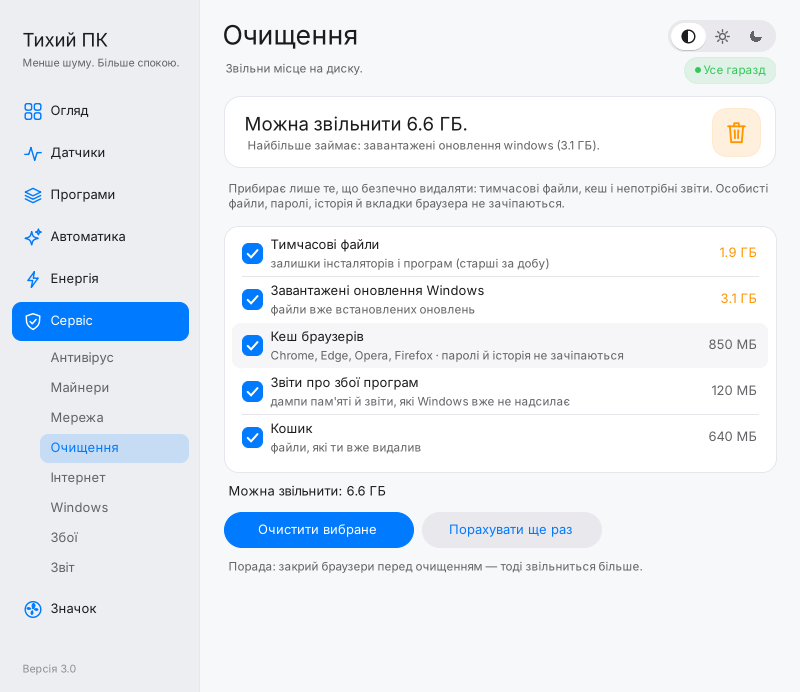
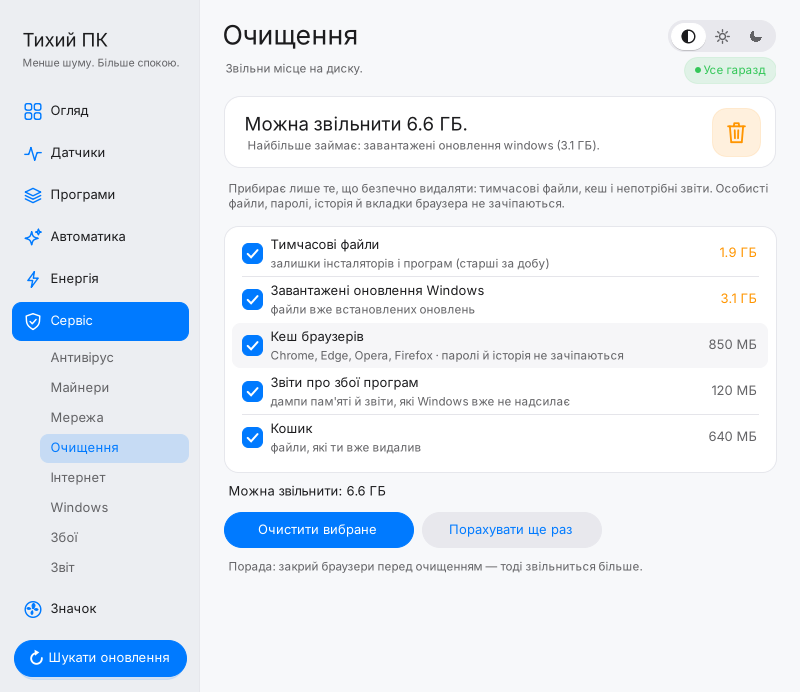
Сайт: нові можливості 3.1–3.7 і свіжі знімки
- картки: кнопка на панелі завдань, весь екран і Snap, оновлення й підсумок тижня, «Авто» в енергії
- галерея: Енергія і «На весь екран», знімки з нового інтерфейсу
- питання: як оновити; Microsoft підтвердив, що шкідливого коду немає

Claude-Session: https://claude.ai/code/session_01SfcRwrkwGvgeaTNGhf47q9

Changed region(s): [[0.0, 0.9104, 0.25, 1.0]]

diff --git a/index.html b/index.html
@@ -242,7 +242,7 @@ footer a{color:var(--ink2)}
       <div class="stats">
         <div class="stat"><b>5</b><span>режимів для процесора й відеокарти</span></div>
         <div class="stat"><b>7</b><span>розділів в одному вікні</span></div>
-        <div class="stat"><b>10 хв</b><span>графік температур наживо</span></div>
+        <div class="stat"><b>30 днів</b><span>графік енергії на великому екрані</span></div>
         <div class="stat"><b>₴</b><span>скільки коштує електрика ПК</span></div>
       </div>
     </section>
@@ -256,7 +256,7 @@ footer a{color:var(--ink2)}
       <div class="grid">
         <div class="card" style="--c:var(--blue2)"><div class="ic"><svg viewBox="0 0 24 24" fill="none" stroke="currentColor" stroke-width="2" stroke-linecap="round" stroke-linejoin="round"><path d="M3 12h4l3-7 4 14 3-7h4"/></svg></div><h3>Датчики</h3><p>Температура процесора й відеокарти, навантаження, споживання у ватах, оберти кулера, пам'ять і графік за останні 10 хвилин.</p></div>
         <div class="card" style="--c:var(--purple)"><div class="ic"><svg viewBox="0 0 24 24" fill="currentColor"><path d="M12 2l1.8 5.2L19 9l-5.2 1.8L12 16l-1.8-5.2L5 9l5.2-1.8zM19 14l.9 2.1L22 17l-2.1.9L19 20l-.9-2.1L16 17l2.1-.9zM5 15l.7 1.6L7.3 17.3l-1.6.7L5 19.6l-.7-1.6L2.7 17.3l1.6-.7z"/></svg></div><h3>Автоматика</h3><p>Гра запустилась — прискорює. Ніч чи батарея — тихий режим. Перегрів — пригальмовує. А під час завантажень ПК не засне.</p></div>
-        <div class="card" style="--c:var(--orange)"><div class="ic"><svg viewBox="0 0 24 24" fill="currentColor"><path d="M13 2L4 14h7l-1 8 9-12h-7z"/></svg></div><h3>Енергія</h3><p>Скільки кіловат-годин з'їв ПК сьогодні й за місяць, прогноз до кінця місяця — і скільки це в гривнях за твоїм тарифом. А щонеділі — підсумок тижня.</p></div>
+        <div class="card" style="--c:var(--orange)"><div class="ic"><svg viewBox="0 0 24 24" fill="currentColor"><path d="M13 2L4 14h7l-1 8 9-12h-7z"/></svg></div><h3>Енергія</h3><p>Скільки кіловат-годин з'їв ПК сьогодні й за місяць, прогноз до кінця місяця — і скільки це в гривнях. Режим «Авто» сам враховує плату, пам'ять, диски, вентилятори й ККД блока живлення — цифри як на розумній розетці.</p></div>
         <div class="card" style="--c:var(--green)"><div class="ic"><svg viewBox="0 0 24 24" fill="none" stroke="currentColor" stroke-width="2" stroke-linejoin="round"><path d="M12 3l8 3v6c0 5-3.5 8-8 9-4.5-1-8-4-8-9V6z"/><path d="M8.5 12l2.5 2.5 4.5-5" stroke-linecap="round"/></svg></div><h3>Захист</h3><p>Стан антивіруса, пошук прихованих майнерів, автозапуск і програми, що ходять в інтернет. Підозріле — одразу видно.</p></div>
         <div class="card" style="--c:var(--green)"><div class="ic"><svg viewBox="0 0 24 24" fill="none" stroke="currentColor" stroke-width="2" stroke-linejoin="round"><rect x="3" y="7" width="16" height="10" rx="2.5"/><path d="M21 10.5v3" stroke-linecap="round"/><rect x="5.5" y="9.5" width="7" height="5" rx="1" fill="currentColor" stroke="none"/></svg></div><h3>Батарея й диски</h3><p>Знос батареї, цикли, прогноз автономності. Здоров'я, температура й напрацювання SSD та HDD.</p></div>
         <div class="card" style="--c:var(--blue2)"><div class="ic"><svg viewBox="0 0 24 24" fill="none" stroke="currentColor" stroke-width="2" stroke-linecap="round"><path d="M12 12c-1.5-4-.5-8 3-8.5 3 0 3.5 3.5 1.5 5.5zM12 12c4-1.5 8-.5 8.5 3 0 3-3.5 3.5-5.5 1.5zM12 12c1.5 4 .5 8-3 8.5-3 0-3.5-3.5-1.5-5.5zM12 12c-4 1.5-8 .5-8.5-3 0-3 3.5-3.5 5.5-1.5z"/></svg></div><h3>Пил і охолодження</h3><p>Програма помічає, коли ПК гріється сильніше, ніж раніше при тому ж навантаженні, і підкаже, що пора почистити від пилу.</p></div>
@@ -266,6 +266,9 @@ footer a{color:var(--ink2)}
         <div class="card" style="--c:var(--orange)"><div class="ic"><svg viewBox="0 0 24 24" fill="none" stroke="currentColor" stroke-width="2" stroke-linejoin="round"><path d="M12 3.5L2.5 20h19z"/><path d="M12 10v4.5M12 17.2v.3" stroke-linecap="round"/></svg></div><h3>Windows і збої</h3><p>Здоров'я системи, журнал збоїв програм і «синіх екранів» — з поясненням простими словами, що сталося.</p></div>
         <div class="card" style="--c:var(--ink3)"><div class="ic"><svg viewBox="0 0 24 24" fill="none" stroke="currentColor" stroke-width="2" stroke-linejoin="round"><path d="M6 3h8l4 4v14H6z"/><path d="M9 12h6M9 16h6M14 3v4h4" stroke-linecap="round"/></svg></div><h3>Звіт про ПК</h3><p>Гарна картинка з характеристиками, температурами, станом батареї й дисків — щоб надіслати другу чи майстру.</p></div>
         <div class="card" style="--c:var(--blue2)"><div class="ic"><svg viewBox="0 0 100 100"><use href="#fan"/></svg></div><h3>Живий значок</h3><p>Вентилятор біля годинника крутиться тим швидше, чим більше працює ПК, і червоніє при перегріві. Шість кольорів, колір за температурою або температура числом.</p></div>
+        <div class="card" style="--c:var(--purple)"><div class="ic"><svg viewBox="0 0 24 24" fill="none" stroke="currentColor" stroke-width="2" stroke-linejoin="round"><rect x="3" y="5" width="18" height="12" rx="2"/><path d="M7 21h10" stroke-linecap="round"/><rect x="6" y="13" width="7" height="1.6" rx=".8" fill="currentColor" stroke="none"/></svg></div><h3>Кнопка на панелі завдань</h3><p>Поки вікно відкрите, вентилятор крутиться й на кнопці програми внизу екрана, а смужка під ним показує навантаження: зелена, жовта чи червона.</p></div>
+        <div class="card" style="--c:var(--green)"><div class="ic"><svg viewBox="0 0 24 24" fill="none" stroke="currentColor" stroke-width="2" stroke-linejoin="round"><rect x="3" y="4" width="18" height="16" rx="2"/><path d="M12 4v16M12 12h9"/></svg></div><h3>На весь екран і Snap</h3><p>Розгорни вікно — розділи стануть у дві колонки, графіки на всю ширину. Або постав програму в половину чи чверть екрана через Snap Layouts — усе підлаштується.</p></div>
+        <div class="card" style="--c:var(--blue2)"><div class="ic"><svg viewBox="0 0 24 24" fill="none" stroke="currentColor" stroke-width="2" stroke-linecap="round" stroke-linejoin="round"><path d="M20 11a8 8 0 1 0-2.3 5.7"/><path d="M20 5v6h-6"/></svg></div><h3>Оновлення й підсумок тижня</h3><p>Програма сама підкаже, коли вийде нова версія, — оновлення в один клік. А щонеділі ввечері — скільки годин працював ПК, найвищі температури й скільки коштувала електрика.</p></div>
       </div>
     </section>
 
@@ -280,7 +283,9 @@ footer a{color:var(--ink2)}
         <button role="tab" data-i="1" aria-selected="false">Показники</button>
         <button role="tab" data-i="2" aria-selected="false">Автоматика</button>
         <button role="tab" data-i="3" aria-selected="false">Очищення</button>
-        <button role="tab" data-i="4" aria-selected="false">Значок</button>
+        <button role="tab" data-i="4" aria-selected="false">Енергія</button>
+        <button role="tab" data-i="5" aria-selected="false">Значок</button>
+        <button role="tab" data-i="6" aria-selected="false">На весь екран</button>
       </div>
       <div class="shot">
         <div class="bar"><span>Тихий ПК</span><span class="ctl"><span>—</span><span>☐</span><span>✕</span></span></div>
@@ -311,7 +316,8 @@ footer a{color:var(--ink2)}
       <div class="head"><h2>Питання й відповіді.</h2></div>
       <div class="faq">
         <details><summary>Це безпечно для мого ПК?</summary><p>Так. Тихі режими використовують стандартні налаштування живлення Windows і офіційний ліміт потужності відеокарти. Нічого не розганяється понад заводські межі, а режим «Звичайний» повертає все як було до першого запуску програми.</p></details>
-        <details><summary>Антивірус каже, що це вірус. Що робити?</summary><p>Нові програми без платного сертифіката іноді помилково потрапляють під підозру, бо вони змінюють налаштування живлення. Програма не ставить себе в автозапуск без твого дозволу і не ховається. Якщо Defender щось показав — натисни «Дозволити на пристрої» і, за бажання, надішли файл у Microsoft як помилкове спрацювання.</p></details>
+        <details><summary>Антивірус каже, що це вірус. Що робити?</summary><p>Нові програми без платного сертифіката іноді помилково потрапляють під підозру, бо вони змінюють налаштування живлення. Програма не ставить себе в автозапуск без твого дозволу і не ховається. Microsoft перевірив інсталятор і підтвердив: шкідливого коду немає, хибну тривогу прибрано. Якщо Defender однаково щось показав — онови його («Безпека Windows» → «Оновлення захисту») і завантаж файл ще раз.</p></details>
+        <details><summary>Як оновити програму?</summary><p>Унизу бокового меню є синя кнопка <b>«Шукати оновлення»</b>. Коли вийде нова версія, вона сама стане «Оновити до …» — натисни, завантаж інсталятор і запусти: він закриє стару версію й поставить нову, налаштування збережуться.</p></details>
         <details><summary>Навіщо драйвер PawnIO?</summary><p>Щоб бачити температуру й споживання процесора, програма читає датчики через бібліотеку LibreHardwareMonitor, а їй потрібен маленький драйвер PawnIO з цифровим підписом. Наприкінці встановлення програма запропонує відкрити його офіційний сайт <a href="https://pawnio.eu/">pawnio.eu</a> — завантаж і встанови звідти. Без драйвера все інше працює, просто частина датчиків показуватиме «—».</p></details>
         <details><summary>Які потрібні вимоги?</summary><p>Windows 10 або 11. Потрібний .NET Framework 4 уже є в системі. Підходить і для ноутбуків, і для настільних ПК; режими відеокарти працюють з картами NVIDIA.</p></details>
         <details><summary>Це відкритий код?</summary><p>Так. Увесь код програми лежить у <a class="repo" href="https://github.com/Dimonchikk/TyhyiPK">репозиторії на GitHub</a> під ліцензією MIT, а інсталятор збирає сам GitHub прямо з цього коду — можна перевірити, що всередині.</p></details>
@@ -394,7 +400,9 @@ footer a{color:var(--ink2)}
     { l: "sens",  d: "sens",  c: "Показники — температури, навантаження, споживання і графік за 10 хвилин." },
     { l: "rules", d: "rules", c: "Автоматика — правила для ігор, ночі, батареї й перегріву." },
     { l: "clean", d: "clean", c: "Очищення — звільняє місце, не чіпаючи особисті файли й паролі." },
-    { l: "icon",  d: "icon",  c: "Значок — живий вентилятор біля годинника: колір, обертання, температура." }
+    { l: "energy", d: "energy", c: "Енергія — споживання з розетки, гривні, підсумок тижня й графік за два тижні." },
+    { l: "icon",  d: "icon",  c: "Значок — живий вентилятор біля годинника й на кнопці панелі завдань." },
+    { l: "wide",  d: "wide",  c: "На весь екран — дві колонки й графік за місяць на всю ширину." }
   ];
   var cur = 0, img = document.getElementById("galImg"), cap = document.getElementById("galCap");
   function show(i) {
